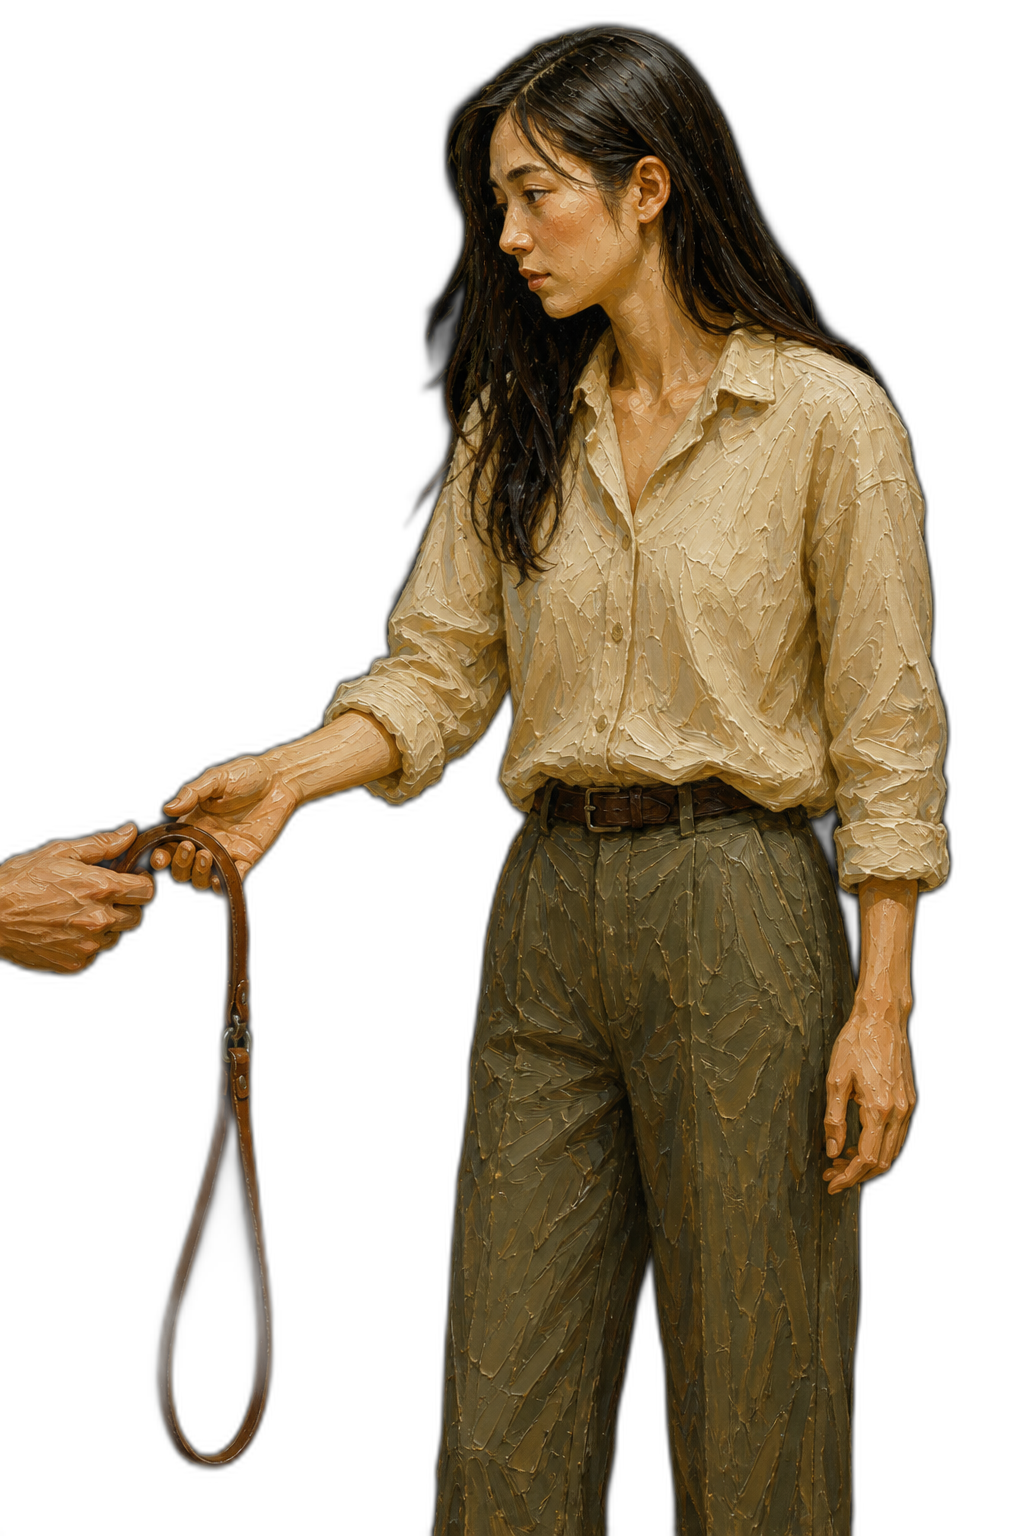
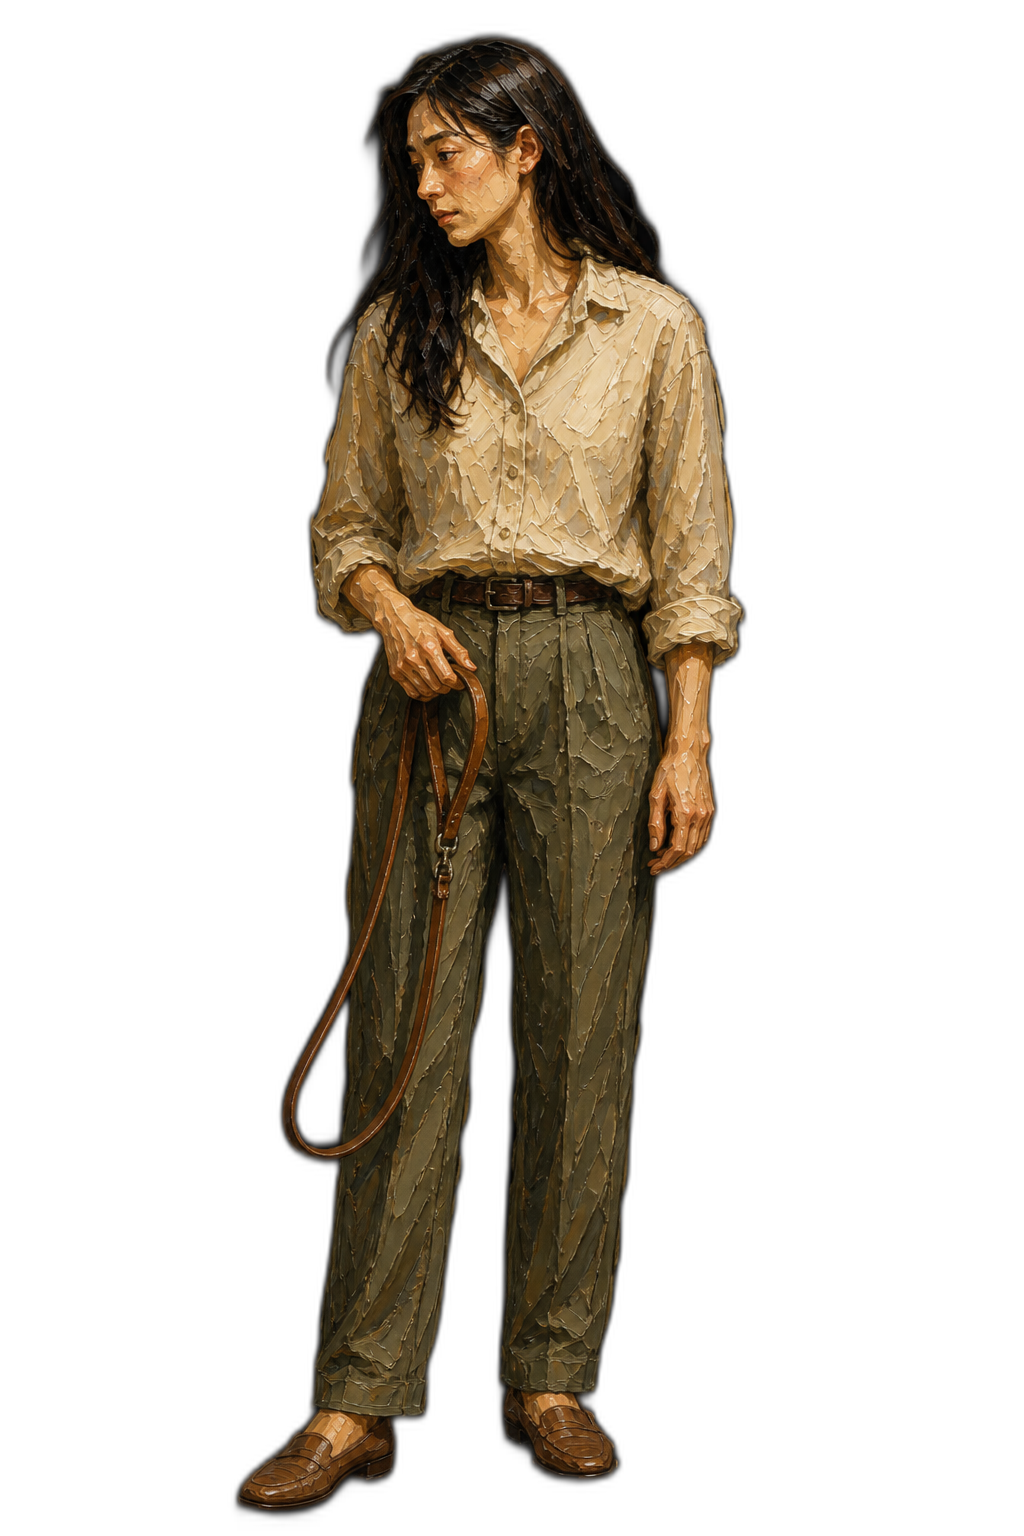
Fix Yuan sprite mismatches: home-stand, paper bag, leash-pass without third hand.

diff --git a/Ch1_Trust_Version3/agents/image_char.md b/Ch1_Trust_Version3/agents/image_char.md
@@ -33,7 +33,7 @@
 | 膚 | 暖調東亞膚色；可有淡淡黑眼圈 |
 | 臉 | 溫和寫實五官；疲憊／溫柔／笨拙關心；**允許入鏡** |
 | 服裝主調 | **米白／燕麥／奶油**上衣；**深褐／橄欖／炭灰**寬褲；平底樂福／室內拖鞋感 |
-| 道具 | 黑／深灰 **頭戴式耳機**（掛脖或戴上）；便當塑膠袋；棕色皮牽繩 |
+| 道具 | 黑／深灰 **頭戴式耳機**（掛脖或戴上）；便當塑膠袋；**牛皮紙購物袋**；棕色皮牽繩 |
 | 禁 | Logo、螢光色、華麗飾品、偶像臉、過尖下巴歐美網紅感 |
 
 ### 1.2 IDENTITY 文案（必貼）
@@ -61,17 +61,19 @@ Centered full body (or clear readable crop). SOLID FLAT BLACK (#000000) backgrou
 
 | 檔名 | 表情／動作 | 服裝／道具 | 主用 |
 |------|------------|------------|------|
-| `char-yuan-commute.png` | 疲憊垂眼、略駝 | 奶油開襟針織＋灰 T＋深褐寬褲；**耳機掛脖**；右手提便當塑膠袋 | S01／夜歸／超商 |
-| `char-yuan-sofa.png` | 平行安靜 | **木椅坐姿**滑手機（對齊 `bg-living-day` 右前景矮凳；transform `char_chair`）；手垂下 | **S04** 人狗同框 |
+| `char-yuan-commute.png` | 疲憊垂眼、略駝 | 奶油開襟針織＋灰 T＋深褐寬褲；**耳機掛脖**；右手提便當塑膠袋 | **僅** S01 夜歸／超商／巷口／玄關進門、S02 後門相遇前；**禁**開冰箱、倒水、白天門邊、S10 空屋／擺碗、結局 |
+| `char-yuan-home-stand.png` | 進屋後空手站 | 同 commute 服裝；**無袋、無牽繩**；一手插袋一手自然下垂 | S01 開冰箱；S06 門邊（護衛前）；S07 倒水；S10 空屋／擺碗 |
+| `char-yuan-paper-bag.png` | 提紙袋回家 | 同 commute 服裝；右手提**牛皮紙購物袋**（非透明便當袋） | S10 買水碗／掛勾回程（街／玄關／客廳貼勾） |
+| `char-yuan-sofa.png` | 平行安靜 | **木椅坐姿**滑手機（對齊 `bg-living-day` 右前景矮凳；transform `char_chair`）；手垂下 | **S04** 人狗同框；S10 停電前可短用 |
 | `char-yuan-squat-side.png` | 側身蹲等 | 米白襯衫＋橄欖褲；側蹲不伸手；**無牽繩** | **S02** Dist＋ |
-| `char-yuan-carry-pup.png` | 側抱幼犬 | 通勤服；側抱小7離後門 | **S02** 帶走 |
-| `char-yuan-headphones.png` | 專注／疏離 | 淺灰藍長袖襯衫袖捲起＋深褐褲；**耳機戴上**；雙手插口袋 | S05 Tone 尖 |
+| `char-yuan-carry-pup.png` | 側抱幼犬 | 通勤服；側抱小7 | S02 帶走／硬抱失敗一瞬；S06 抱回屋內 |
+| `char-yuan-headphones.png` | 專注／疏離 | 淺灰藍長袖襯衫袖捲起＋深褐褲；**耳機戴上**；雙手插口袋 | S05 Tone 尖；辦公室夜景 |
 | `char-yuan-headphones-off.png` | Tone 切換 | 同服裝；**耳機掛脖／剛摘下** | **S05** 關麥克風後 |
 | `char-yuan-sick-bed.png` | 發燒虛弱 | 床沿垂手 | **S07** |
-| `char-yuan-block.png` | 冷靜擋在中間 | 米白襯衫袖捲；**面向左**；一臂前伸開掌擋／護（對左側鄰居） | S06 |
+| `char-yuan-block.png` | 冷靜擋在中間 | 米白襯衫袖捲；**面向左**；一臂前伸開掌擋／護（對左側鄰居） | **僅** S06 選「往前半步擋住」；勿再當空手站姿暫代 |
 | `char-yuan-leash.png` | 蹲等／耐心 | 米白襯衫＋橄欖褲；側蹲；手握**棕色皮牽繩**下垂；**面向左** | S08 玄關穿帶／返家；S08 樹下停等；S09 玄關（×0.8） |
 | `char-yuan-walk.png` | 巷口散步 | 米白襯衫＋橄欖褲；**站姿走路**握牽繩；**面向左**；無狗同框 | **S08 巷口**（非蹲） |
-| `char-yuan-leash-pass.png` | 交繩／收回 | 站姿；手交／收回牽繩握把 | **S09** 硬分歧 |
+| `char-yuan-leash-pass.png` | 交繩／收回 | 站姿；**僅予安雙手**握牽繩握把（**禁**對方伸入畫面的手） | **S09** 硬分歧（期間勿疊同事全身） |
 | `char-yuan-farewell.png` | 告別／攤手 | 米白襯衫＋橄欖褲；單膝下跪；手掌攤開**無牽繩**；圖檔**面向左**（遊戲內 `xzoom` 翻成面右對狗） | S09 客廳（×0.8） |
 | `char-yuan-cafe.png` | 交接衝突 | 米白襯衫＋橄欖褲；**站姿**握牽繩；**面向左**（對同事／狗） | S09 咖啡廳 |
 | `char-clerk.png` | 禮貌微笑 | 年輕男店員；深藍短袖＋深色圍裙＋深褲 | S01／S02 |
@@ -150,8 +152,8 @@ No text, no logo, no trust meter UI, no scenery.
 |------|------|
 | 2026-07-25 | 建立本檔；備份 `assets/_backup_unused/_backup_20260725_193450/`；以現有 7 張為錨重寫 IDENTITY／STYLE；全量重產 |
 | 2026-07-28 | 新增 `char-yuan-farewell`／`char-yuan-cafe`／`char-coworker-cafe`；S09 朝向寫入 pose 表 |
-| 2026-07-29 | 新增 `char-yuan-walk`；S08 巷口改走路立繪（蹲姿僅玄關／樹下停等） |
+| 2026-08-13 | 新增 `char-yuan-home-stand`／`char-yuan-paper-bag`；`leash-pass` 重產去除對方伸入的手 |
 
 ---
 
-*更新：2026-07-29｜S08 巷口走路立繪；建立稿 2026-07-25*
+*更新：2026-08-13｜home-stand／paper-bag／leash-pass 去對方手；建立稿 2026-07-25*

diff --git a/Ch1_Trust_Version3/agents/tester_sprite_mismatch_fix_report.md b/Ch1_Trust_Version3/agents/tester_sprite_mismatch_fix_report.md
@@ -1,0 +1,34 @@
+# Tester 報告｜立繪／場景不合理項修正
+
+**日期：** 2026-08-13  
+**範圍：** 依審計「全部修改」— `script.rpy` 道具／姿勢與劇情對齊  
+**先前已修：** S01 開冰箱、S07 倒水（hide yuan）
+
+---
+
+## 本次修正對照
+
+| 原問題 | 修正 |
+|--------|------|
+| S02 硬抱仍提便當 | 抱時切 `carry_pup`，放回後再 `commute` |
+| S02 進門「便當袋與狗」 | 改「臂彎裡那一小團」；急診「比便當袋重」→「比便當收據還重」 |
+| S03 客廳 `door_sleep` | 改 `parallel`；門外／玄關仍可用 `door_sleep` |
+| S06 白天 `commute` | 改 `block`；進屋先出狗；額頭碰後用 `block` |
+| S06 抱回屋無抱姿 | 一瞬 `carry_pup` 再 hide |
+| S07／S08 上班日＋`office_night` | 文案改傍晚／下班前，對齊夜景 |
+| S09 `leash_pass`＋同事疊手 | 交繩後先切 `cafe` 再 show 同事 |
+| S10 送走／留下仍 `commute` | 全程 `hide yuan`（狗可留）；停電前才 `sofa` |
+| 結局 A～D 殘留 sofa／commute | 各結局開頭 `hide yuan` |
+
+## 仍合理保留的 `commute`
+
+S01 超商／巷口／玄關進門 · S02 後門相遇前／硬抱失敗放回後 — 仍在「夜歸提便當」語境。
+
+## 後續可選（非阻擋）
+
+- 補一張「進屋後空手站姿」（針織開襟、無袋）取代 S06 暫用 `block`
+- 補「提紙袋／水碗」姿給 S10 買碗回程（目前空景）
+
+---
+
+*Tester／引擎修正 · 2026-08-13*

diff --git a/Ch1_Trust_Version3/agents/section_01_fluorescent_over_moon.md b/Ch1_Trust_Version3/agents/section_01_fluorescent_over_moon.md
@@ -79,7 +79,7 @@
 - **鉤子時序：** 店員台詞在**結帳前**（非回家後），讓玩家帶著問題離開超商。
 - **風味選擇：** 轉角「繞看／原路」→ `flags.peeked_backdoor`，不動 `trust`。
 - **銜接：** 「直到明天」→ **S02〈後門那一瞥〉**（開場鉤子段，與 S01 合計 ≤15 分）。
-- **回家畫面：** `entrance-night`（進門／換鞋）→ `living-night`＋`yuan sofa`（沙發邊吃便當／備忘）→ `kitchen-night`（開冰箱／搜尋）→ 回 `living-night` 入睡。
+- **回家畫面：** `entrance-night`（進門／換鞋，`yuan commute` 可提便當）→ `living-night`＋`yuan sofa`（沙發邊吃便當／備忘）→ `kitchen-night`＋`yuan home_stand`（開冰箱／搜尋；**勿** commute）→ 回 `living-night` 入睡。
 
 ---
 
